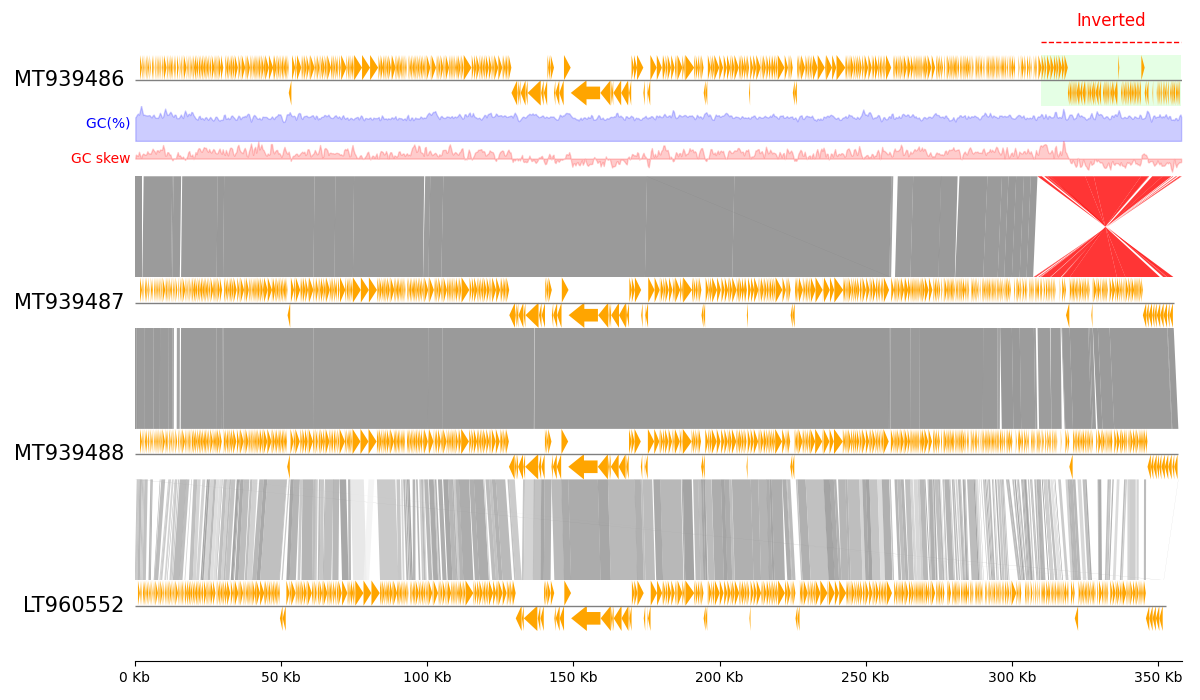
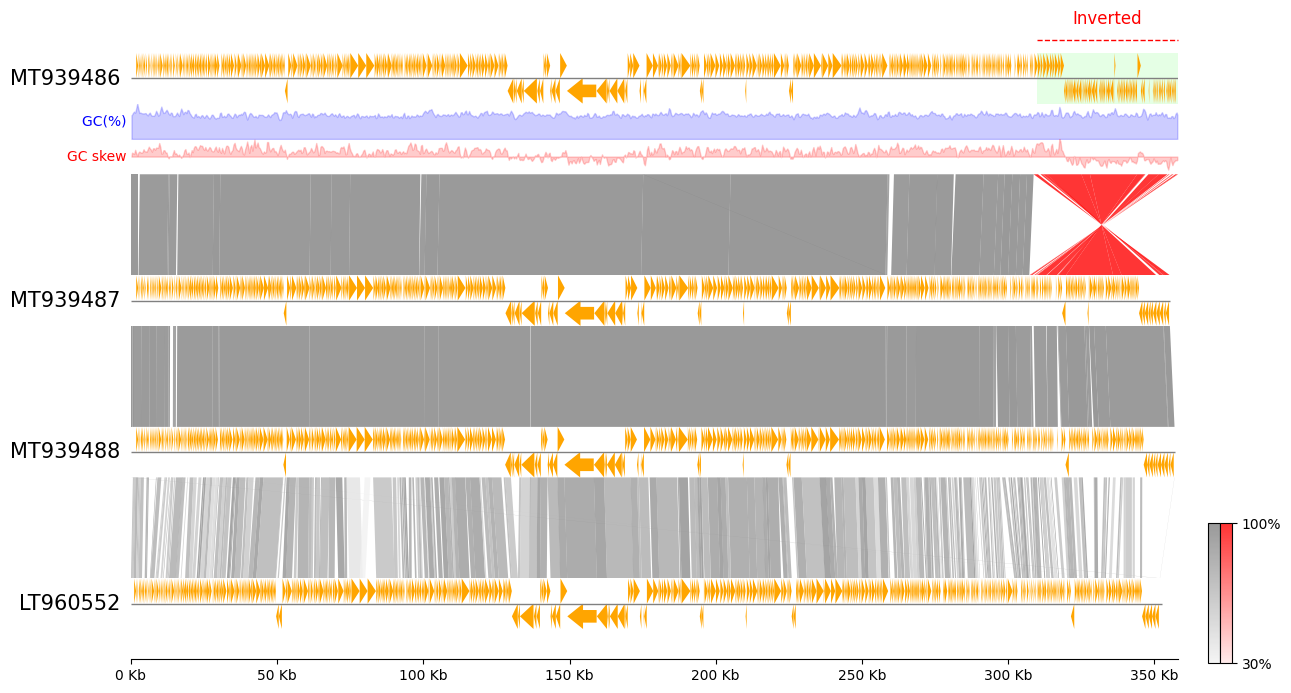
Fix documents a little

Changed region(s): [[0.0, 0.0, 0.9867, 1.0], [0.5242, 0.7273, 0.555, 0.7576], [0.3083, 0.1515, 0.3392, 0.1818]]

diff --git a/README.md b/README.md
@@ -119,7 +119,7 @@ gv.savefig("example03.png")
 
 ### Practical Example
 
-#### Single Genome Track from Genbank file
+#### Single Track from Genbank file
 
 ```python
 from pygenomeviz import Genbank, GenomeViz, load_dataset
@@ -240,7 +240,7 @@ gc_skew_ax.text(gv.top_track.offset, 0, "GC skew ", ha="right", va="center", col
 # Set coloarbar for link
 gv.set_colorbar(fig, vmin=min_identity)
 
-fig.savefig("example06.png")
+fig.savefig("example06.png", bbox_inches="tight")
 ```
 
 </details>
@@ -305,7 +305,7 @@ fig.legend(handles=handles, frameon=True, bbox_to_anchor=(1, 0.8), loc="upper le
 # Set colorbar for link
 gv.set_colorbar(fig, bar_colors=[normal_color, inverted_color], alpha=alpha, vmin=min_identity, bar_height=0.15, bar_label="Identity", bar_labelsize=10)
 
-fig.savefig("example07.png")
+fig.savefig("example07.png", bbox_inches="tight")
 ```
 
 </details>
